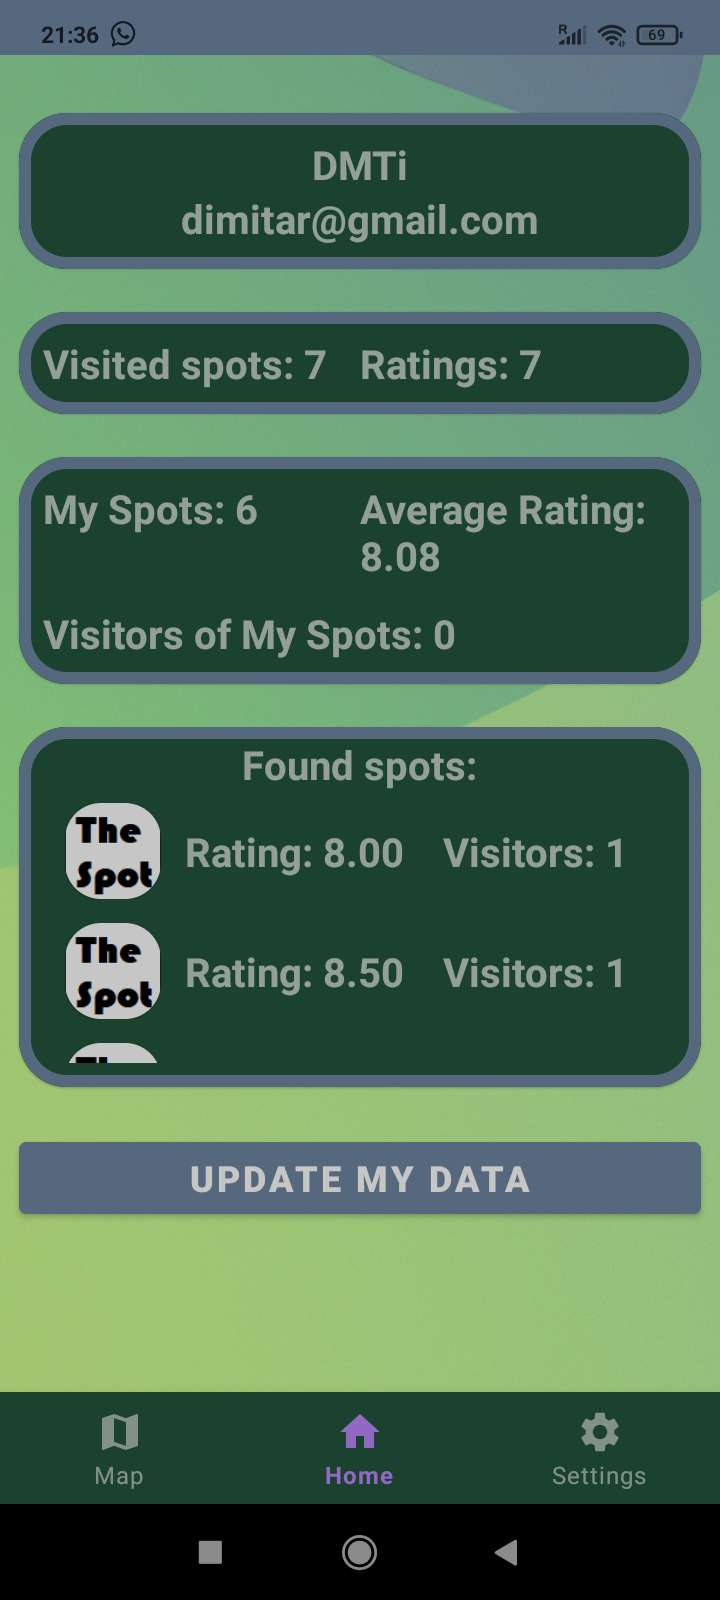
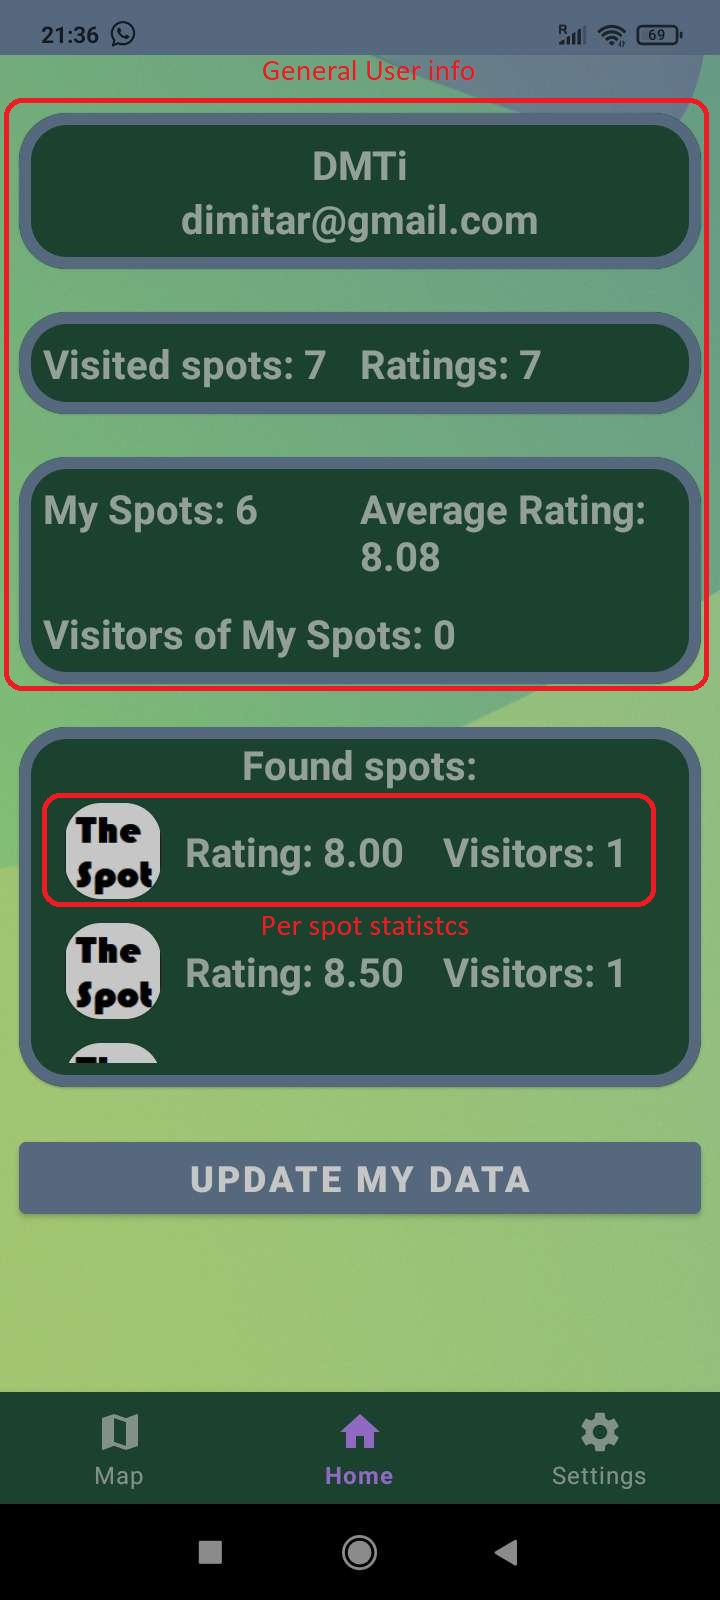
Readme file updated

diff --git a/README.md b/README.md
@@ -1,1 +1,66 @@
-# HighSpots-Project
+# HighSpots - App for sharing chill spots
+
+Key technologies: Java, Android Studio, Firebase, GMail API, Google Maps API for Android
+
+## Short Introduction
+HighSpots is an Android application that allows users to "pin" their location on a public map and share some information and images to other users about their location or just visit already existing locations. The application allows filtering on locations based on several attributes in radius of 30km. Furthermore, for each user statics such as how many spots the user has added to the map, the number of spots the user has visitted, the number of other people who have visitted any of the user's spots and the average raiting of the user's spots are reported on the homepage. 
+
+## Login, Registration and Authentication
+Registration form, as seen in the picture below, requires only email, password and nickname. The email does not need to be real, yet it needs to follow the general email pattern. However, the application allows changing password via email, so it is advisable to be real xD. 
+
+![Registration Form](https://github.com/Djimi02/HighSpots-Project/blob/main/images/Registration.jpg)
+
+Login page, as seen in the picture below, is very simple as it requires only the email and password. In case of forgotten password, the user can click on "Forgot password" then enter their email and then they will receive Firebase-generated link to change their password.
+
+![Login Form](https://github.com/Djimi02/HighSpots-Project/blob/main/images/Login.jpg)
+
+Note: For user authentication I have used Firebase's API
+
+## Homepage
+Homepage reports all the user information such as: current email and nickname, the number of spots visitted and rated by the user, the number of visitors to any of the user's spots, and a list of the user's spots as well as per spot statics.
+
+![Homepage](https://github.com/Djimi02/HighSpots-Project/blob/main/images/Homepage.jpg)
+
+The button "UPDATE MY DATA" fetches the most recent data from the database.
+
+At the bottom the navigation bar can be seen.
+
+## Settings page
+On the settings page, one can do several things: change nickname, email and password, logout from the account and delete the account from the database, as well as send email to the developer via the contact form.
+
+![Settings page](https://github.com/Djimi02/HighSpots-Project/blob/main/images/Settings.jpg)
+
+## Map
+The map is standard Android Google map. It visializes the user's current location, and the spots existing within 30km away from the user. Green pin means that the spot is created by the currently logged in user, while red pin means that the spot is created by other user.
+
+![Map](https://github.com/Djimi02/HighSpots-Project/blob/main/images/OpenMap.jpg)
+
+The application allows filtering spots based on features and distance:
+
+![Menu](https://github.com/Djimi02/HighSpots-Project/blob/main/images/Menu.jpg)
+
+## Spot creation
+There is a "+" button in the bottom right corner of the map page, which allows users to add their current location as a spot. Spot creation requires the user to give it initial rating, mark features existing on the real world location such as lake or gazebo, and upload a photo, as can be seen in the 2 pictures below. Clicking on "ADD IMAGE" opens the user's phone camera and wait for them to take a photo.
+
+![Spot creation form](https://github.com/Djimi02/HighSpots-Project/blob/main/images/CreateSpot1.jpg)
+
+![Spot creation form](https://github.com/Djimi02/HighSpots-Project/blob/main/images/CreateSpot2.jpg)
+
+## Spot viewing
+While searching for cool spots nearby, the user can click on any of the pins on the map and a spot overview pop-up window will appear, as can be seen in the picture below. It contains information such as image of the location, average raiting + the number of raitings, as well as a list of features. Once the user's location is less than 150m away from the spot location, the buttons "VISIT" and "RATE" become accessible. After "visiting" and raiting the spot, the user info as well as the spot info are updated in the database. Last but not least, a report form is accessible for each spot in the top right corner, which can be used to notify the developer of inappropriate photos or not existing places.
+
+![Spot view](https://github.com/Djimi02/HighSpots-Project/blob/main/images/OpenSpot.jpg)
+
+## Database
+The NoSQL database Firebase is used. Firebase Authentication with email and password is used for user registration and authentication. Firebase Storage is used for storing the images from the spots uploaded by the users. Firebase Realtime Database is used for storing User and Spot objects. 
+
+A photo from the database showing how User objects are stored is shown below. Each user has several attributes and is identified by unique ID. User object is usually associated with multiple Spot objects. The "data fan-out" technique is used to link User objects to Spot objects and the other way around. So for example, foundSpots, ratedSpots and visittedSpots are lists containing the unique IDs of the Spot objects.
+
+![User object in the database](https://github.com/Djimi02/HighSpots-Project/blob/main/images/UserDatabase.png)
+
+Follow a photo from the database showing how Spot objects are stored:
+
+![Spot object in the database](https://github.com/Djimi02/HighSpots-Project/blob/main/images/SpotDatabase.png)
+
+## Gmail service
+javax.mail library is used to allow users to "Contact" the developer and "Report" spots. I created 2 gmails: sender account and receiver account. The required information + text are added as the email body and are sent by the sender to the receiver account.
